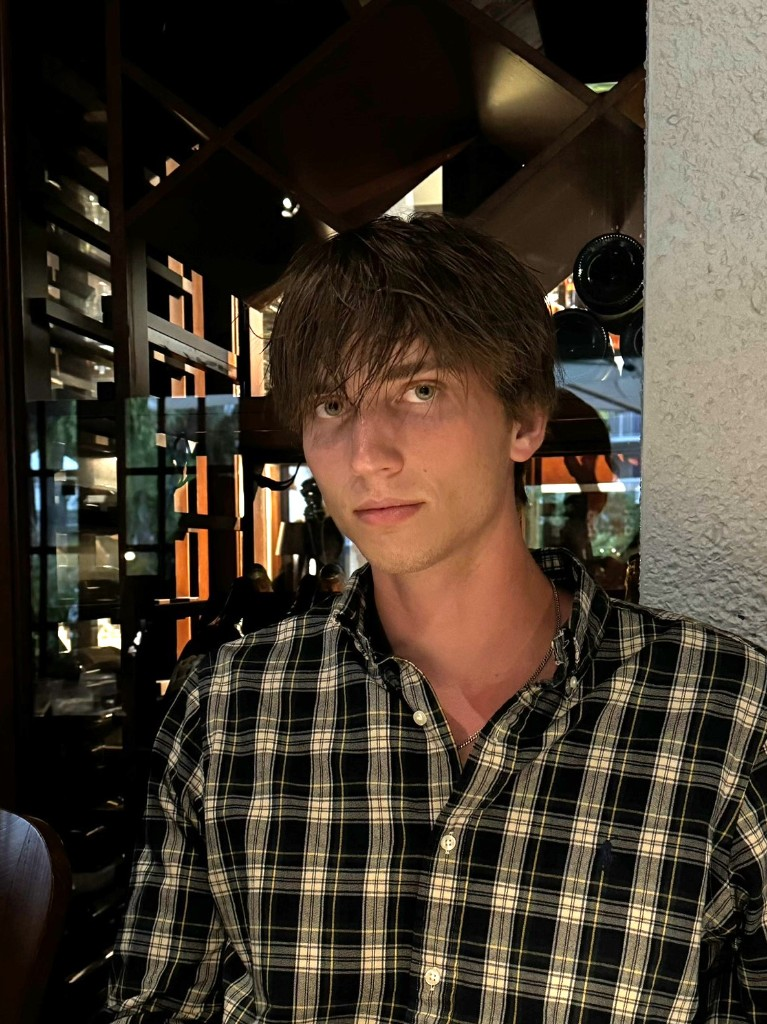
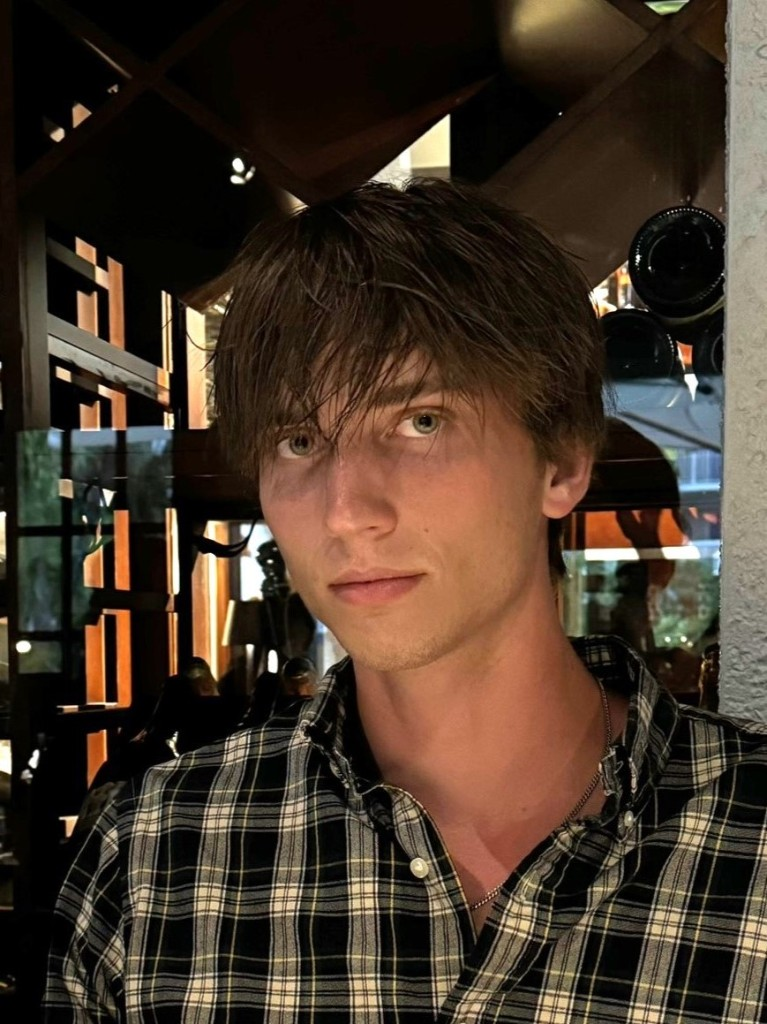
Replace the portrait with a closer crop.

diff --git a/index.html b/index.html
@@ -22,7 +22,7 @@
 
         <section class="about" aria-labelledby="about-heading">
             <figure class="portrait">
-                <img src="images/photo.jpg" alt="Garrett Howe">
+                <img src="images/photo.jpg?v=2" alt="Garrett Howe">
             </figure>
 
             <div class="about-copy">
